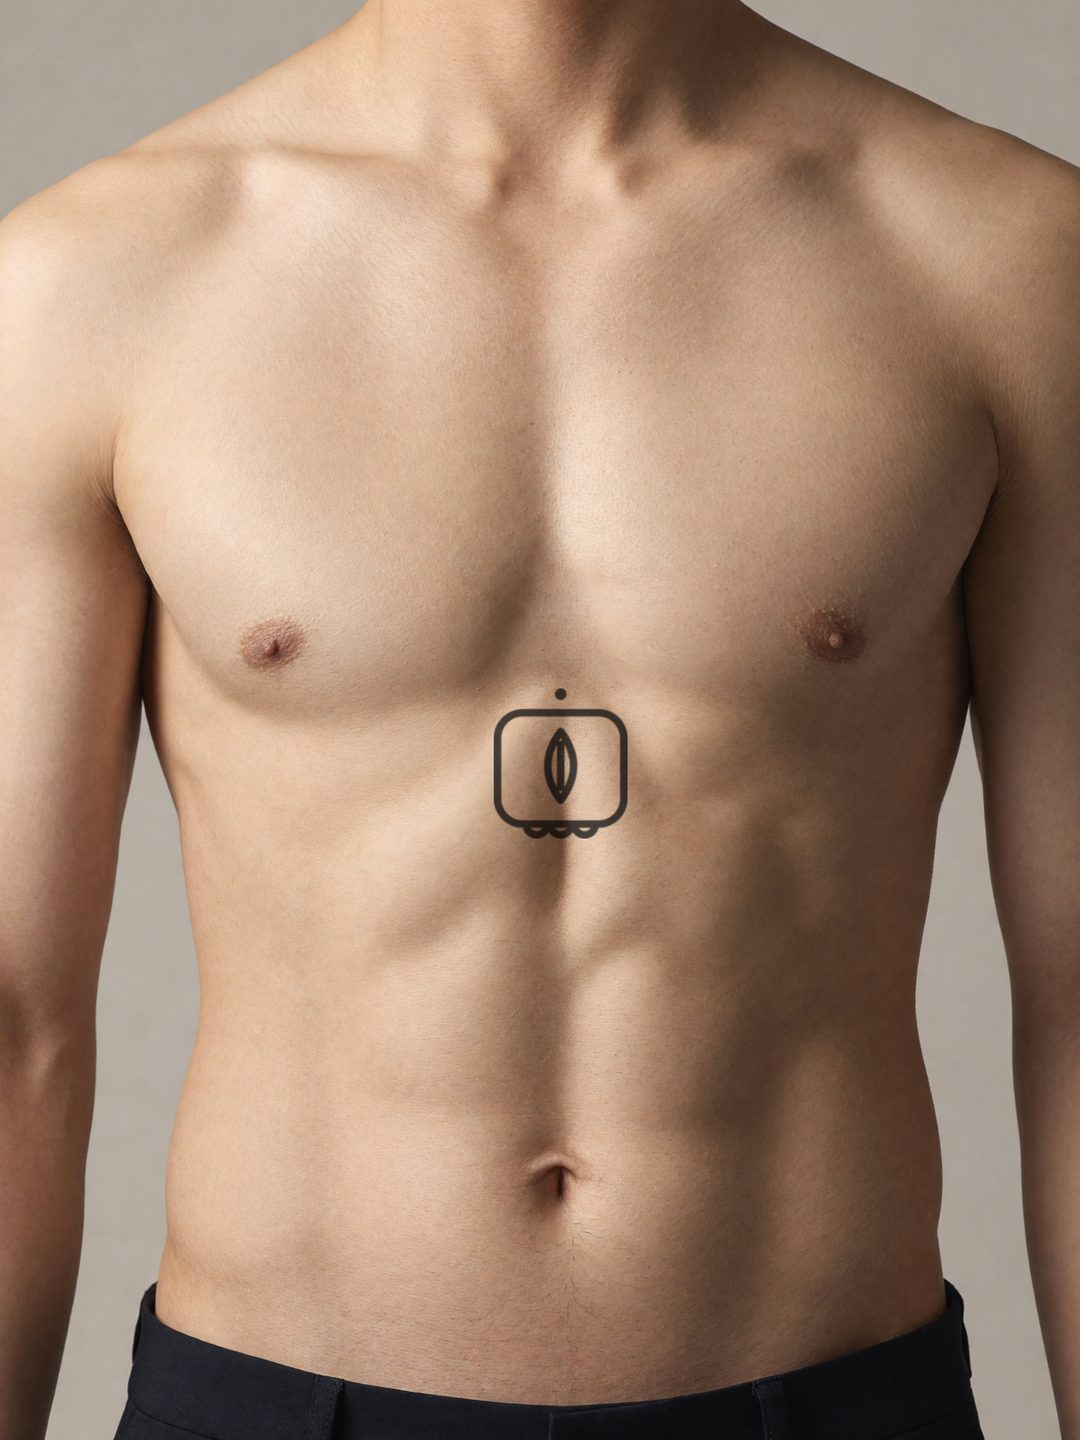
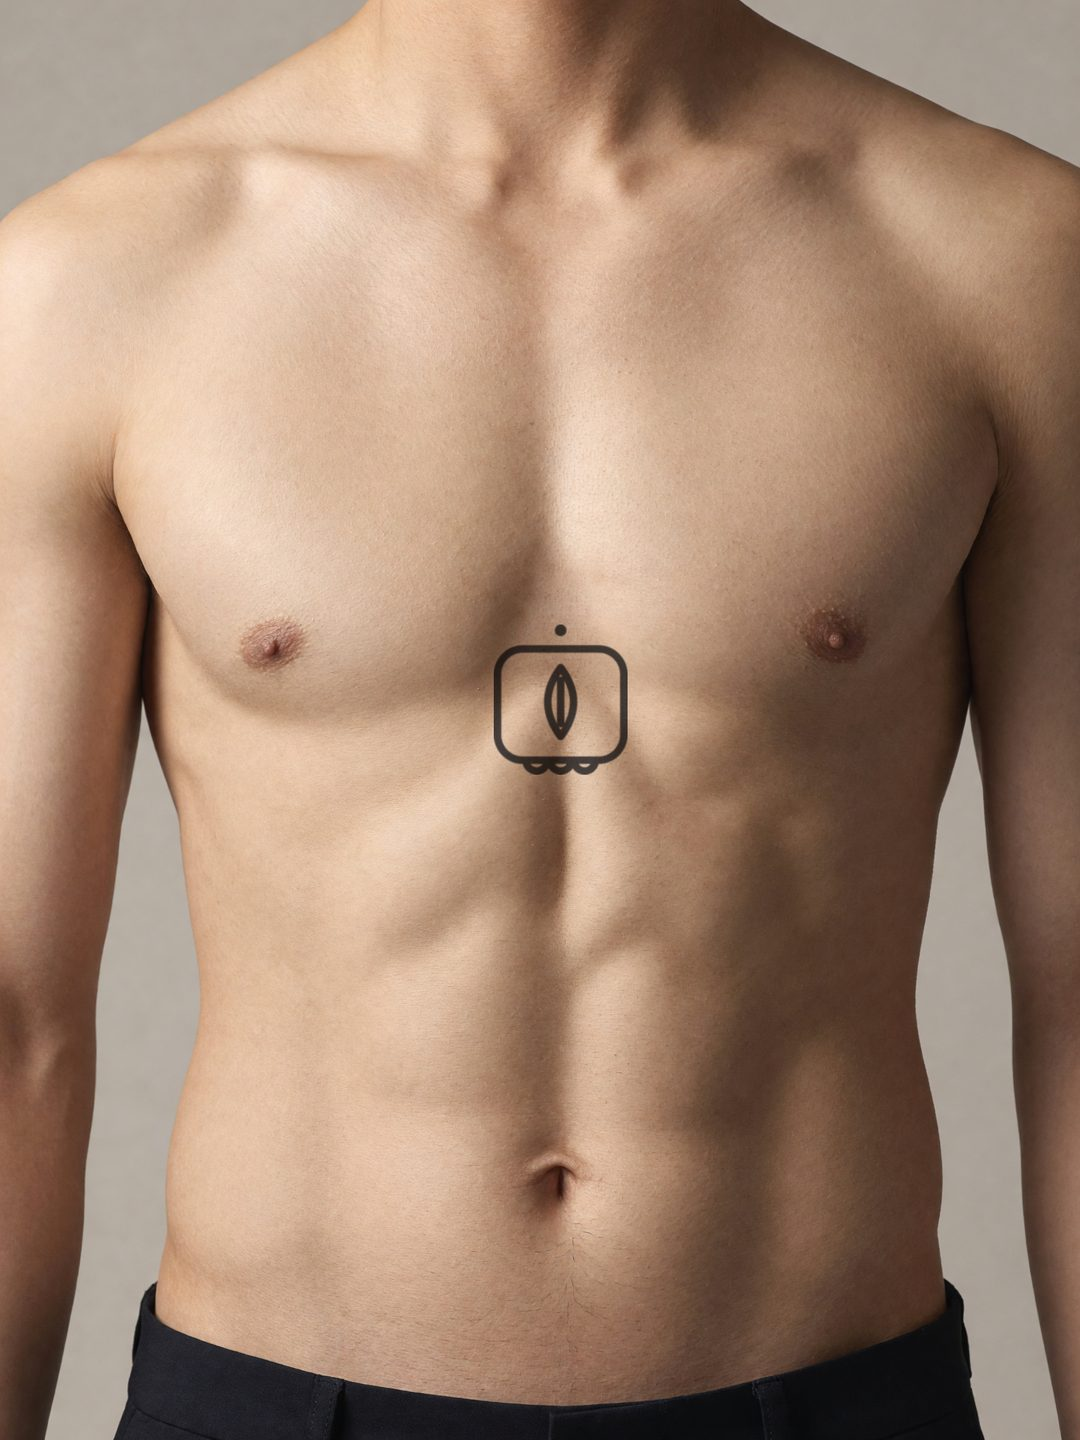
Solar plexus tattoo moved up, into the triangle below the pecs

Changed region(s): [[0.4583, 0.4375, 0.5806, 0.5938]]

diff --git a/index.html b/index.html
@@ -802,7 +802,7 @@
 
 <script>
 /* ═══ CONFIG — the only lines you need to edit (see docs/LAUNCH.md) ═══ */
-const MEDIA_V="19";   /* bump when a gallery or example image changes, so browsers fetch the new one */
+const MEDIA_V="20";   /* bump when a gallery or example image changes, so browsers fetch the new one */
 const mv=u=>u+(u.includes("?")?"&":"?")+"v="+MEDIA_V;
 const CONFIG={
   payApi:"",        // your payment worker, e.g. "https://starot-pay.yourname.workers.dev" — empty = tattoo files download free

diff --git a/tools/higgsfield/composite-gallery.py b/tools/higgsfield/composite-gallery.py
@@ -22,7 +22,7 @@ JOBS = {
     "maya-day-chest-man":      ("chest-plate-man-v25.png", MAYA / "maya-day.png", (1290, 990), 250, 1, 1, 0, None, None),
     "maya-trecena-back-woman": ("back-plate-woman-v25.png", MAYA / "maya-trecena.png", (932, 1010), 220, 1, 1, 0, None, None),
     "maya-tone-forearm-woman": ("forearm-upper-plate-woman-v24.png", MAYA / "maya-tone.png", (1600, 875), 220, 1, .92, 11, None, None),
-    "maya-day-plexus-man":     ("plexus-plate-man-v28.png", MAYA / "maya-day-1-etznab.png", (922, 1255), 220, 1, 1, 0, None, None),   # where the breastbone ends
+    "maya-day-plexus-man":     ("plexus-plate-man-v28.png", MAYA / "maya-day-1-etznab.png", (922, 1150), 220, 1, 1, 0, None, None),   # where the breastbone ends
     "maya-cross-deltoid-man":  ("deltoid-plate-man-v24.png", MAYA / "maya-cross.png", (950, 1165), 560, 1, .95, 20, None, None, .5),   # tilted 20° counter-clockwise, as asked
     # the sky
     "wheel-thigh-woman":       ("thigh-plate-woman-v25.png", DES / "design-1-natal-wheel.png", (975, 1360), 330, 1, .86, 29, None, None),
